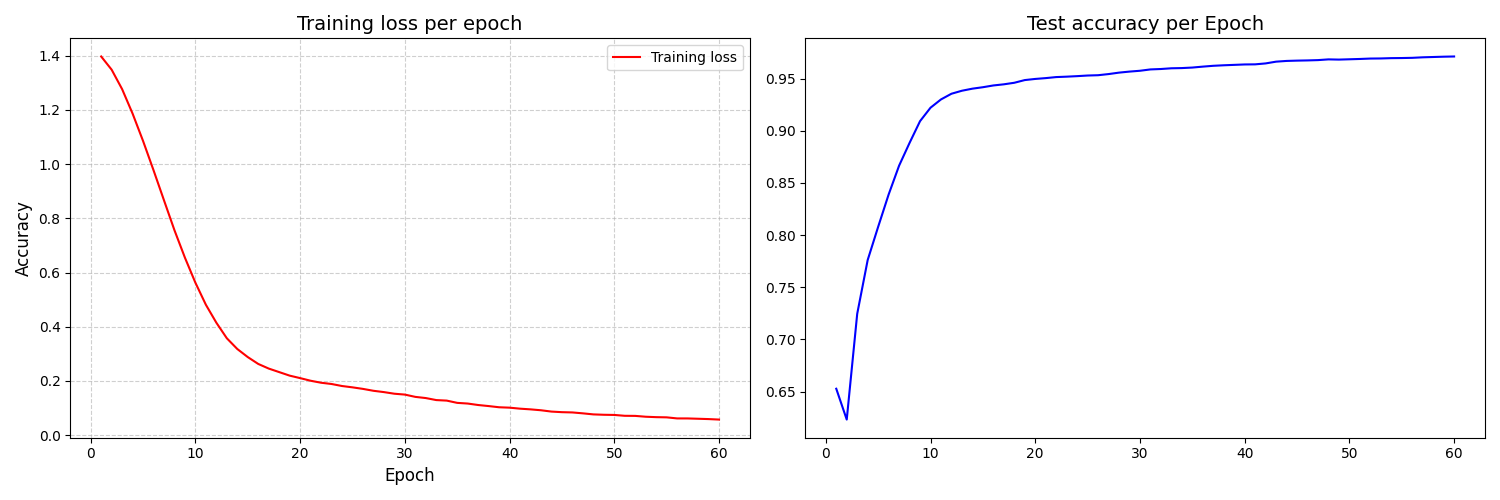
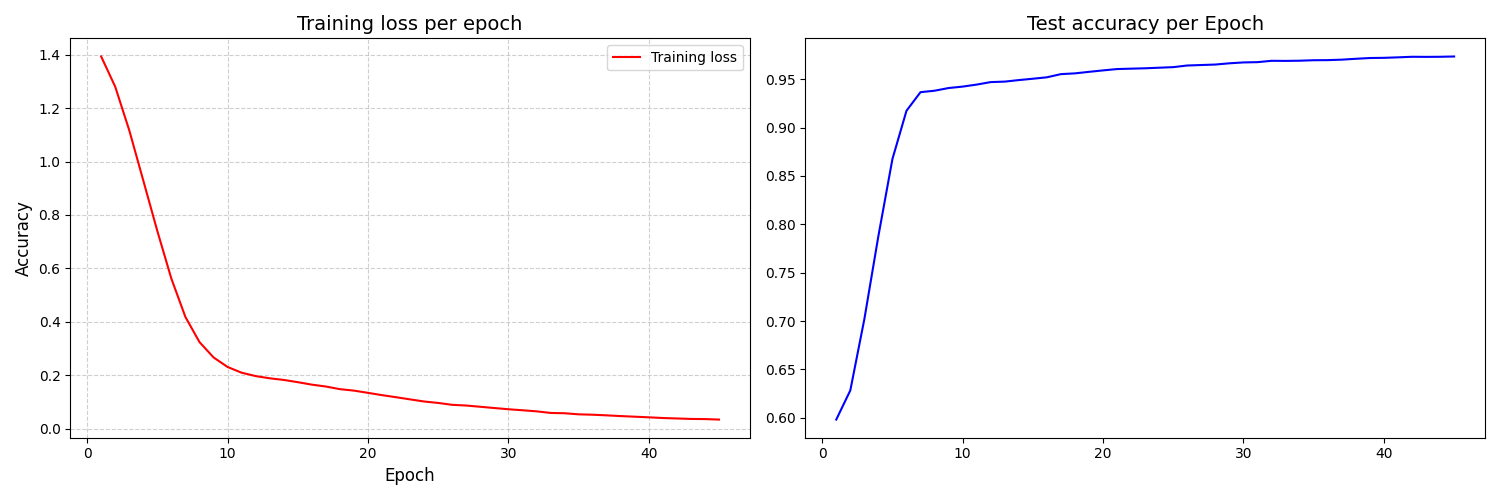
Sample of vectorized input

diff --git a/src/preprocess.py b/src/preprocess.py
@@ -2,6 +2,7 @@ import re   #module for text cleaning
 from sklearn.model_selection import train_test_split    #function for splitting data into test / train sets
 from sklearn.feature_extraction.text import TfidfVectorizer     #vectorizer for extraction
 
+
 """ 
 Vectorizer: text -> numerical data
 - feature extraction (converting raw text into matrix of numerical feature vectors)
@@ -44,3 +45,42 @@ def prepare_data(df, test_size = 0.2):
 
     #return vectorized features, category labels and vectorizer
     return X_train_vec, X_test_vec, y_train, y_test, vectorizer
+
+
+import pandas as pd
+
+def print_vectorized_sample():
+    sample_text = (
+        "Lovely Arts Collection Hand Embroidered Cotton Thread Skeins for Craft Projects, Multicolour (Pack of 25) -LAC97 Package includes 25 skeins,"
+        " two each of 12 colors. Each skein is 8 yards long. "
+        "This quality embroidery floss can be used in a multitude of craft projects, including needlecraft, friendship bracelets, stringing beads, and more. Non-toxic."
+        )
+    
+    cleaned_text = clean_text(sample_text)
+    vectorizer = TfidfVectorizer(max_features=5000)
+    vectorized_output = vectorizer.fit_transform([cleaned_text])
+
+    print("--- Vectorization Sample ---")
+    print(f"Shape of vectorized output (documents, features): {vectorized_output.shape}")
+    print("-" * 30)
+
+    print(" Sample has 42 words.\n"
+      " Coords (0 - we have just 1 sample, n - position of the word)\n"
+      " Value (TF-IDF score - the smaller the more important)")
+
+    sample_vector = vectorized_output[0]
+    
+    print("Vector for the sample text (sparse format):")
+    print(sample_vector)
+    
+    print("\nSame vector in dense format (array of TF-IDF scores):")
+    print(sample_vector.toarray())
+    print("-" * 30)
+    
+    feature_names = vectorizer.get_feature_names_out()
+
+    print("Features and TF-IDF scores for the sample text:")
+    for col, score in zip(sample_vector.indices, sample_vector.data):
+        print(f"  - Word: '{feature_names[col]}', Score: {score:.4f}")
+
+   

diff --git a/src/train.py b/src/train.py
@@ -59,6 +59,9 @@ def train_model(X_train, y_train, X_test, y_test, epochs=5, lr=0.01, hidden_dim=
     y_train = torch.tensor(y_train.map(class_to_idx).values).long()
     y_test = torch.tensor(y_test.map(class_to_idx).values).long()
 
+    #print sample of inputs
+    print_NN_input_sample(X_train, y_train)
+
     #initialization of text classifier
     model = TextClassifier(X_train.shape[1], hidden_dim, len(classes))
     #loss function
@@ -137,3 +140,15 @@ def train_model(X_train, y_train, X_test, y_test, epochs=5, lr=0.01, hidden_dim=
     return model, class_to_idx
 
 
+def print_NN_input_sample(X_train, y_train):
+    print(f"X_train Shape (samples, features): {X_train.shape}")
+    print(f"X_train Data Type: {X_train.dtype}")
+    print(f"y_train Shape (labels): {y_train.shape}")
+    print(f"y_train Data Type: {y_train.dtype}")
+    print(f"Feature Vector Length (input_dim): {X_train.shape[1]}")
+    print("-" * 30)
+
+    print("First sample (first 10 features):")
+    # Using .cpu().numpy() to ensure compatibility if a GPU is used, and for readability
+    print(X_train[0][:10].cpu().numpy())
+    print("-" * 30)
